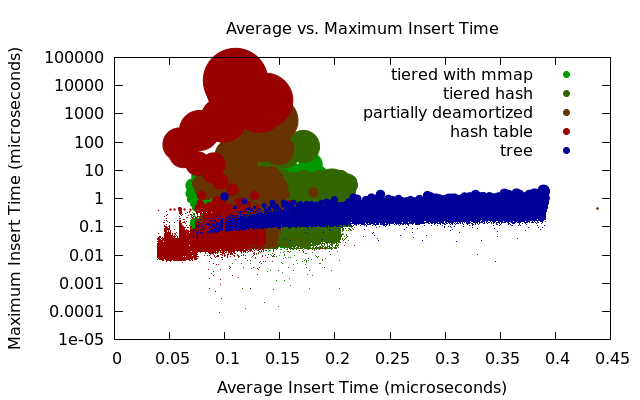
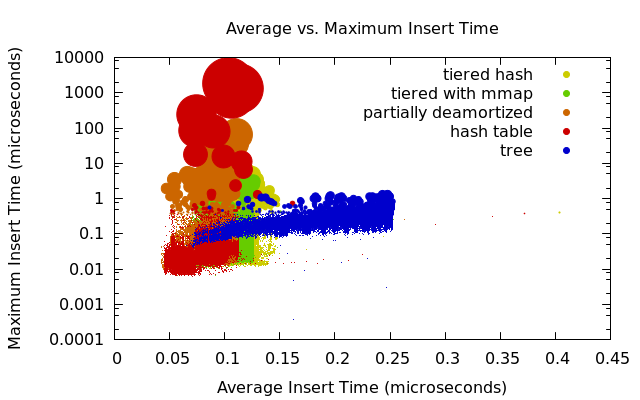
calloc is slow!

diff --git a/src/lazy-linear.cc b/src/lazy-linear.cc
@@ -324,6 +324,7 @@ struct TieredPackedBitArray {
 vector<size_t *> TieredPackedBitArray::old_ones = vector<size_t *>();
 
 #include <sys/mman.h>
+#include <cstring>
 
 struct ImplicitBitArray {
   const static size_t word_log = 6;
@@ -333,15 +334,21 @@ struct ImplicitBitArray {
   size_t size;
   size_t * data;
   ImplicitBitArray(const size_t n) 
-    : size(n),
-      data(reinterpret_cast<size_t *>
-           ( (n/8 >= page_size) 
-             ? mmap(0, n/8, PROT_READ | PROT_WRITE, MAP_PRIVATE | MAP_ANONYMOUS, 0, 0)
-             : calloc(n >> word_log, 1ull << word_log))) {}
+    : size((n+word_mask) >> word_log),
+      data(0) {
+    if ((size << (word_log-3)) >= page_size) {
+      data = reinterpret_cast<size_t*>(mmap(0, size << (word_log-3), PROT_READ | PROT_WRITE, MAP_PRIVATE | MAP_ANONYMOUS, 0, 0));
+    } else {
+      //data = reinterpret_cast<size_t*>(calloc(size, 1ull << (word_log-3)));
+      data = reinterpret_cast<size_t*>(malloc(size << word_log));//, 1ull << word_log));
+      std::fill(data, data+size, 0);
+      //bzero(data, size << word_log);
+    }
+  }
 
   ~ImplicitBitArray() {
-    if (size/8 >= page_size) {
-      munmap(data, size/8);
+    if ((size << (word_log-3)) >= page_size) {
+      munmap(data, size << (word_log-3));
     } else {
       free(data);
     }
@@ -363,7 +370,7 @@ struct ImplicitBitArray {
   }
 };
 
-const size_t ImplicitBitArray::page_size = sysconf(_SC_PAGE_SIZE) * 8;
+const size_t ImplicitBitArray::page_size = static_cast<size_t>(-1);//sysconf(_SC_PAGE_SIZE);
 
 template<typename T>
 struct BasicArray {
@@ -390,6 +397,41 @@ struct BasicArray {
   }
   ~BasicArray() {
     if (0 != data) free(data);
+  }
+};
+
+template<typename T>
+struct MmapArray {
+  static const size_t limiter = 1000;
+  size_t size;
+  T * data;
+  MmapArray(const size_t n) 
+    : size(n),
+      data(reinterpret_cast<T*>
+           ((n * sizeof(T) >= limiter)
+            ? mmap(0, n * sizeof(T), PROT_READ | PROT_WRITE, MAP_PRIVATE | MAP_ANONYMOUS, 0, 0)
+            : (malloc(sizeof(T) * n)))) {}
+  MmapArray(const MmapArray&) = delete;
+  MmapArray& operator=(const MmapArray&) = delete;
+  const T& get(const size_t& i) const {
+    return data[i];
+  }
+  T& get(const size_t& i) {
+    return data[i];
+  }
+  void set(const size_t& i, const T& x) {
+    data[i] = x;
+  }
+  void swap(MmapArray * that) {
+    std::swap(size, that->size);
+    std::swap(data, that->data);
+  }
+  ~MmapArray() {
+    if (size * sizeof(T) >= limiter) {
+      munmap(data, size*sizeof(T));
+    } else {
+      free(data);
+    }
   }
 };
 
@@ -462,8 +504,89 @@ struct TieredArray {
 template<typename T>
 vector<T *> TieredArray<T>::old_ones = vector<T *>();
 
+template<typename T>
+struct TieredMmapArray {
+  static size_t blog(size_t n) {
+    assert (0 == (n & (n-1)));
+    size_t ans = 0;
+    while (n > 1) {
+      n /= 2;
+      ++ans;
+    }
+    return ans;
+  }
+  static vector<pair<size_t, T *> > old_ones;
+  const static size_t limit;
 
+  size_t shift;
+  T ** data;
+  TieredMmapArray(const size_t n) 
+  : shift(blog(n)), 
+    data(reinterpret_cast<T**>
+         ((((1ull << (shift/2)) * sizeof(T*)) >= limit)
+          ? mmap(0, (1ull << (shift/2)) * sizeof(T*), PROT_READ | PROT_WRITE, MAP_PRIVATE | MAP_ANONYMOUS, 0, 0)
+          : calloc(1ull << (shift/2), sizeof(T*)))) {
+  }
+  ~TieredMmapArray() {
+    for (size_t i = 0; i < (1ull << (shift/2)); ++i) {
+      old_ones.push_back(make_pair(sizeof(T) * (1ull << ((shift+1)/2)), data[i]));
+      //data[i] = 0;
+      //delete x;
+      //x = 0;
+    }
+    if (((1ull << (shift/2)) * sizeof(T*)) >= limit) {
+      munmap(data, (1ull << (shift/2)) * sizeof(T*));
+    } else {
+      free(data);
+    }
+    //data = 0;
+  }
+  TieredMmapArray(const TieredMmapArray&) = delete;
+  TieredMmapArray& operator=(const TieredMmapArray&) = delete;
+  size_t upper(const size_t i) const {
+    return (i >> ((shift+1)/2));
+  }
+  size_t lower(const size_t i) const {
+    //return (i & ((1ull << ((shift/2)+1)) - 1));
+    return (i - (upper(i) << ((shift+1)/2)));
+  }
+  const T& get(const size_t& i) const {
+    assert (upper(i) < (1ull << (shift/2)));
+    assert (0 != data[upper(i)]);
+    return data[upper(i)][lower(i)];
+  }
+  T& get(const size_t& i) {
+    assert (upper(i) < (1ull << (shift/2)));
+    assert (0 != data[upper(i)]);
+    return data[upper(i)][lower(i)];
+  }
+  void set(const size_t& i, const T& x) {
+    assert (reinterpret_cast<T*>(0x21) != data[upper(i)]);
+    if (0 == data[upper(i)]) {
+      data[upper(i)] = reinterpret_cast<T*>(malloc(sizeof(T) * (1ull << ((shift+1)/2))));
+      //cerr << data[upper(i)] << endl;
+    }
+    data[upper(i)][lower(i)] = x;
+    if (not old_ones.empty()) {
+      if (old_ones.back().first >= limit) {
+        munmap(old_ones.back().second, old_ones.back().first);
+      } else {
+        free(old_ones.back().second);
+      }
+      old_ones.pop_back();
+    }
+  }
+  void swap(TieredMmapArray * that) {
+    std::swap(shift, that->shift);
+    std::swap(data, that->data);
+  }
+};
 
+template<typename T>
+vector<pair<size_t, T *> > TieredMmapArray<T>::old_ones = vector<pair<size_t, T *> >();
+
+template<typename T>
+const size_t TieredMmapArray<T>::limit = sysconf(_SC_PAGE_SIZE);
 /*
 struct BasicBitArray {
   vector<bool> data;

diff --git a/src/benchmark/insert-maxtime.cc b/src/benchmark/insert-maxtime.cc
@@ -63,7 +63,7 @@ size_t flatsub(const size_t& x, const size_t& y) {
 template<typename T, typename U>
 void test(const unsigned size, const unsigned samples) {
   unsigned i = 0;
-  high_priority zz;
+  //high_priority zz;
   std::vector<T> p(samples);
   std::vector<U> q(samples);
   std::vector<dummy> r(samples);
@@ -184,7 +184,7 @@ void print_test(std::vector<std::tuple<unsigned, double, double> > x) {
 
 int main(int argc, char ** argv) {
   srand(0);
-  unsigned size = 1000000;//00;
+  unsigned size = 100000;//00;
   unsigned samples = 1 << 5;
   if (4 == argc) {
     size = read<unsigned>(argv[2]);
@@ -206,6 +206,9 @@ int main(int argc, char ** argv) {
   typedef quiet_map<sample_type, lazier_map<sample_type, AhoBitArray, TieredArray<slot<sample_type > > > > try8;
   typedef quiet_map<sample_type, lazier_map<sample_type, TieredPackedBitArray, TieredArray<slot<sample_type > > > > try9;
   typedef quiet_map<sample_type, lazier_map<sample_type, ImplicitBitArray, TieredArray<slot<sample_type > > > > try10; // good
+  typedef quiet_map<sample_type, lazier_map<sample_type, ImplicitBitArray, MmapArray<slot<sample_type > > > > try11; // bad
+  typedef quiet_map<sample_type, lazier_map<sample_type, ImplicitBitArray, TieredMmapArray<slot<sample_type > > > > try12; // bad
+  // to try: tiered mmap bitarray at larger sizes
 
   switch(which) {
   case 0:
@@ -231,6 +234,9 @@ int main(int argc, char ** argv) {
     break;
   case 7:
     test<try10, dummy>(size, samples);
+    break;
+  case 8:
+    test<try12, dummy>(size, samples);
     break;
   }
 
